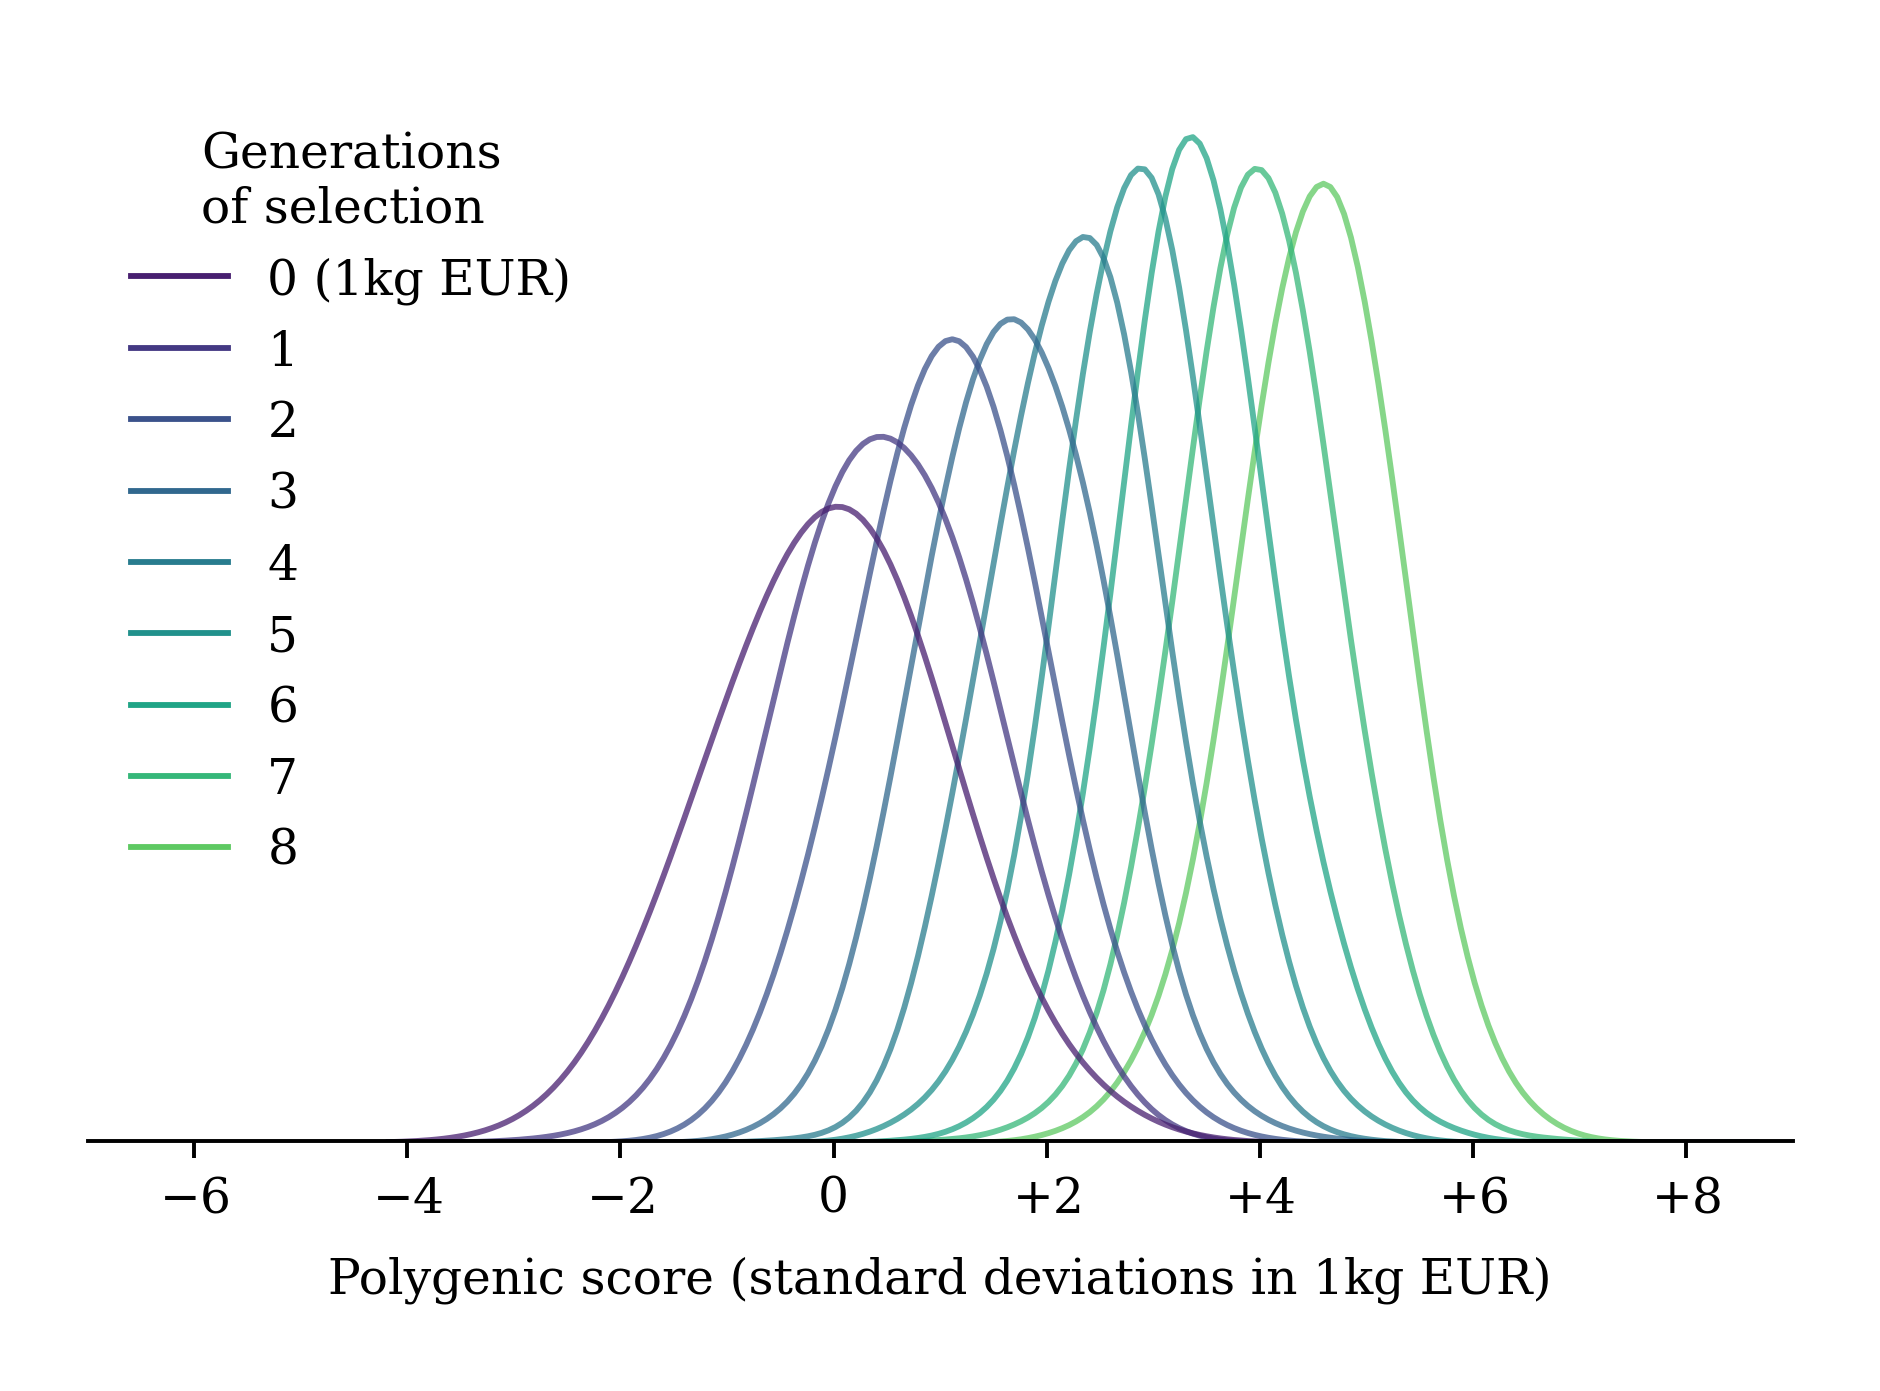
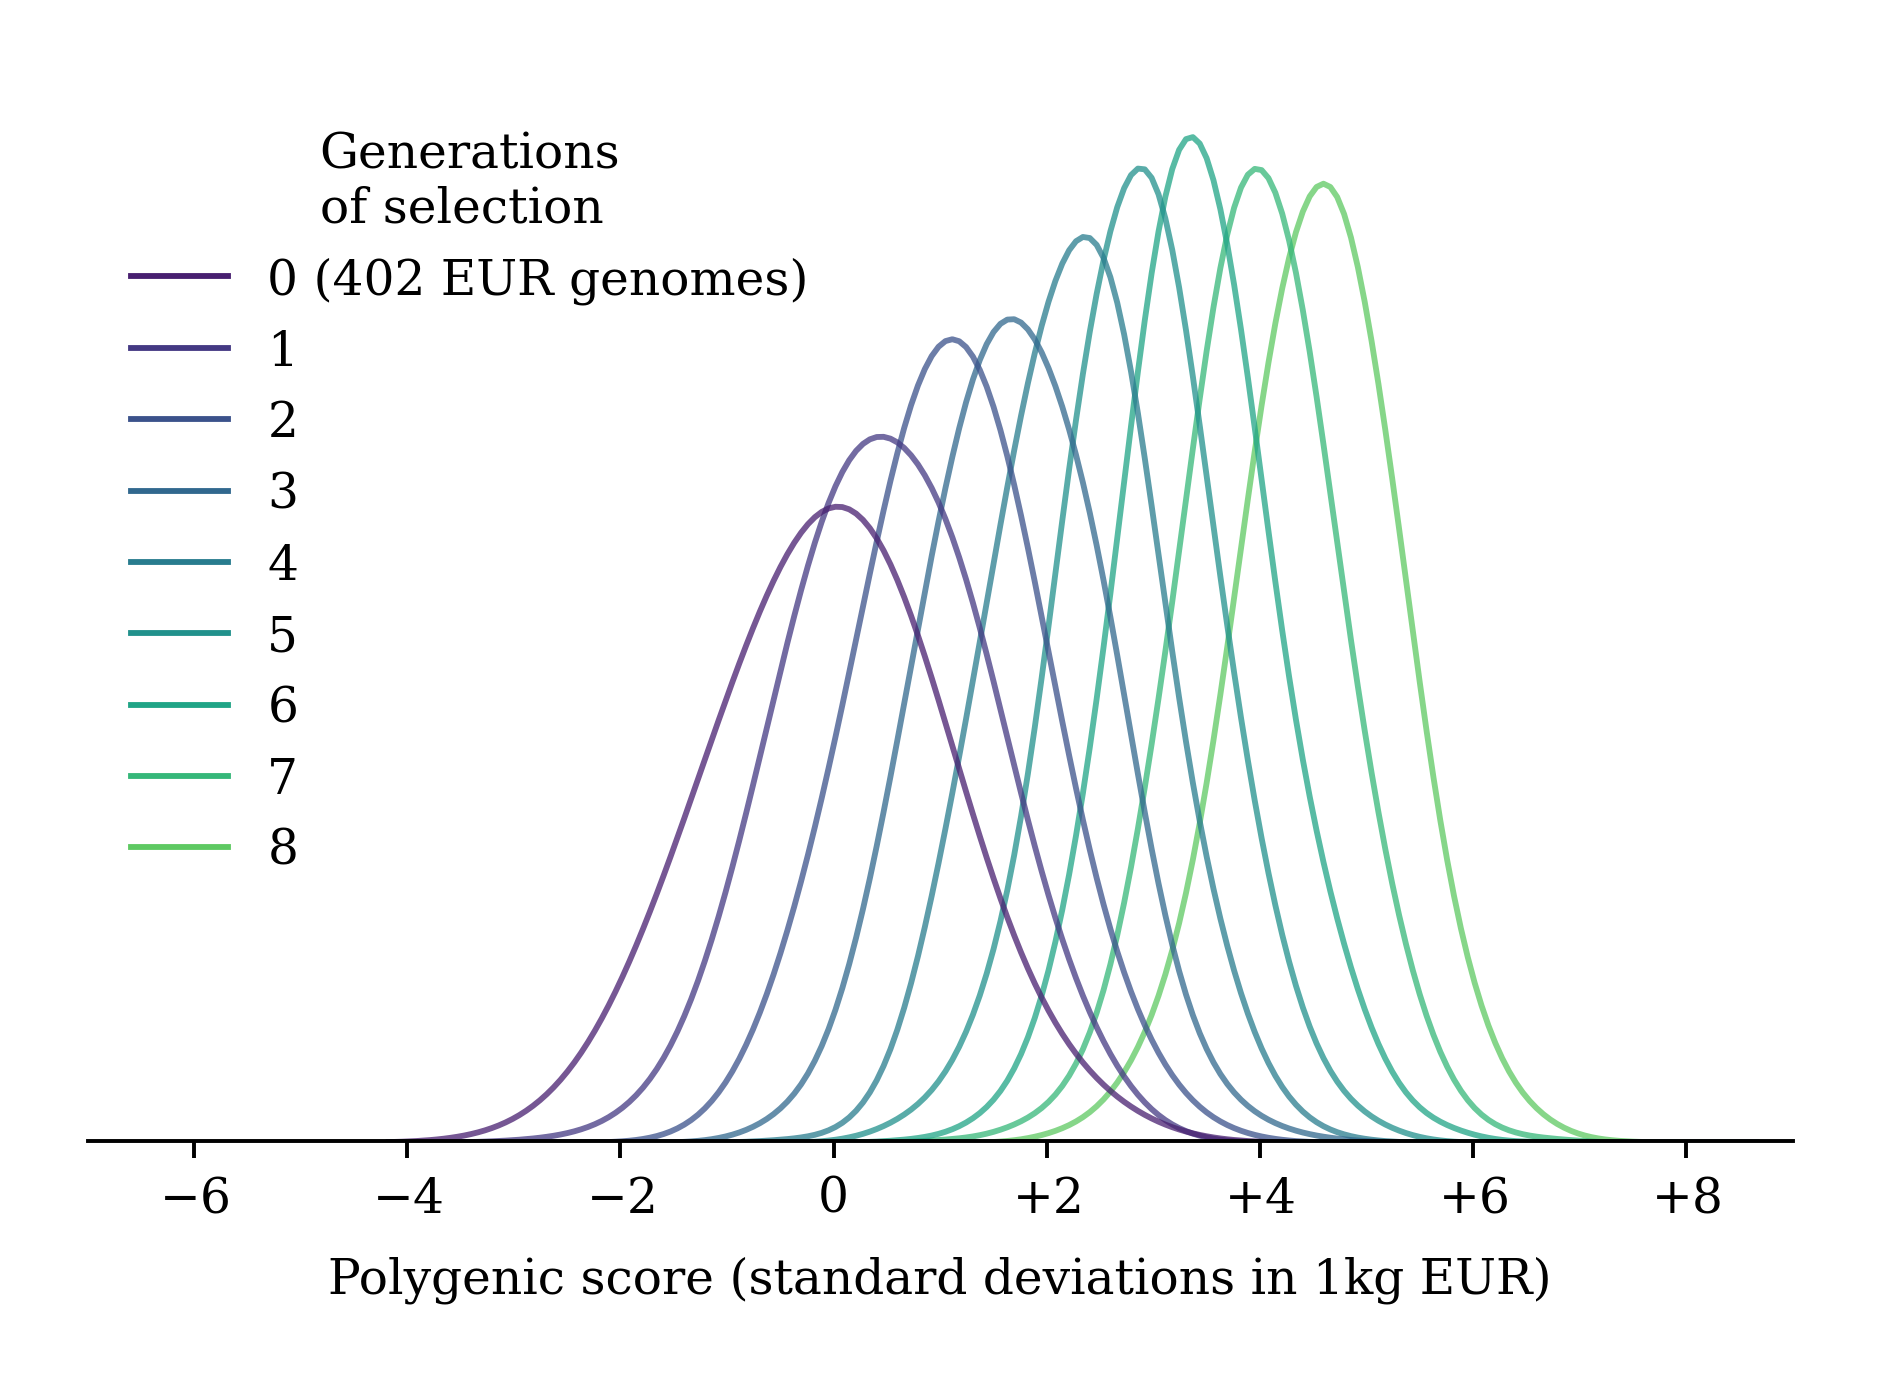
simplify readme

Changed region(s): [[0.0926, 0.0927, 0.4319, 0.2164]]

diff --git a/plotting.py b/plotting.py
@@ -165,15 +165,14 @@ def plot_pgs_dist_generations(n_generations=N_GENERATIONS):
     # Create custom legend handles
     def get_label(generation):
         if generation == 0:
-            return f"0 (1kg EUR)"
+            return f"0 (402 EUR genomes)"
         return generation
-
     handles = [
         Line2D([0], [0], color=palette[i], lw=lw, label=get_label(i))
         for i in range(n_generations+1)
     ]
 
-    ax.legend(handles=handles, title="Generations\nof selection", frameon=False, loc="upper left") 
+    ax.legend(handles=handles, title="Generations\nof selection", frameon=False, loc="upper left")
 
     ax.naked_top()
     ax.set_xticks(range(-6, 10, 2))
